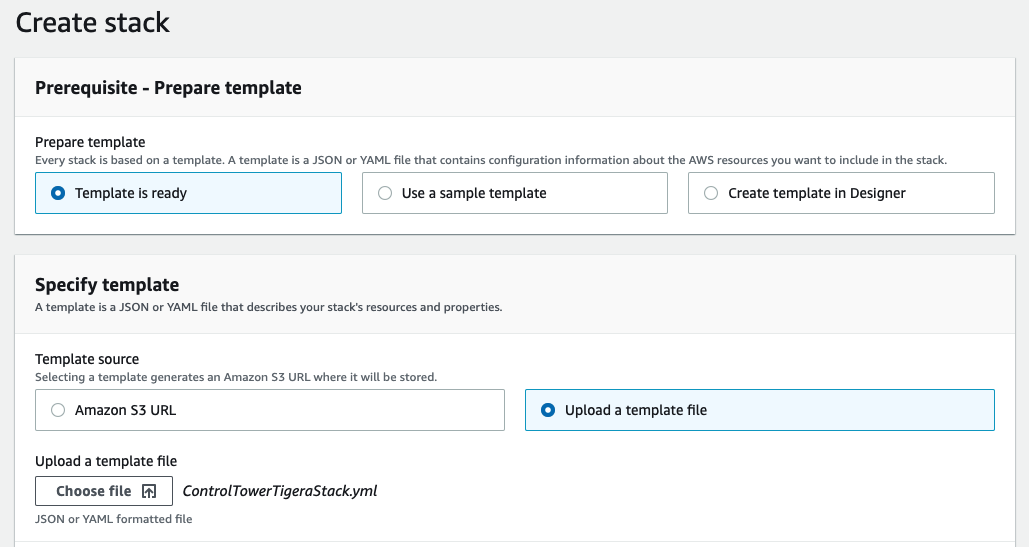
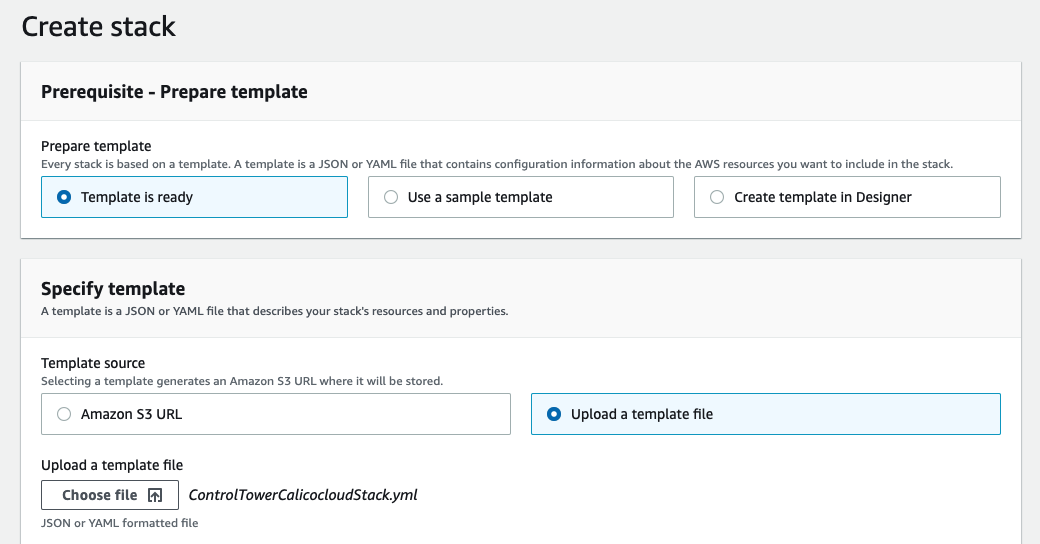
Updating readme and cfn template

diff --git a/README.md b/README.md
@@ -1,4 +1,4 @@
-# tigera-controltower-solution
+# calicocloud-controltower-solution
 
 This solution provides an event driven automation to connect an EKS cluster with Calico cloud.
 
@@ -9,7 +9,7 @@ In order to be able to perform operation on kubernetes, required by calicao scri
 This solution create an IAM role which is used to perform operations on kubernetes. Users of this solution would need to have an automated way of getting that IAM role added as `system:masters` in aws-auth configmap.
 
 ## Deployment
-The `ControlTowerCalicocloudStack.yml` will be deployed in Control Tower management account. This will create a stackset in management account. On every new account creation a CloudFormation stack will be deployed in new account via stackset. The CloudFormation stack in individual account(s) will deploy the resources required for tigera automation.
+The `ControlTowerCalicocloudStack.yml` will be deployed in Control Tower management account. This will create a stackset in management account. On every new account creation a CloudFormation stack will be deployed in new account via stackset. The CloudFormation stack in individual account(s) will deploy the resources required for calicocloud connection automation.
 
 #### Create ControlTowerCalicocloudStack
 * In Control Tower management account, go to CloudFormation stacks, select `Create stack` `With new resources (standard)`.
@@ -17,19 +17,19 @@ The `ControlTowerCalicocloudStack.yml` will be deployed in Control Tower managem
 
 ![Create stack](./resources/imgs/1.png)
 
-* on `Specify stack details` screen, provide a name for Stack. Provide install script url to connect EKS clusters to calico cloud under `TigeraScriptUrl` parameter. Update other parameters as desired. Then, select `Next`
+* on `Specify stack details` screen, provide a name for Stack. Provide install script url to connect EKS clusters to calico cloud under `CalicocloudScriptUrl` parameter. Update other parameters as desired. Then, select `Next`
 
 ![Create stack](./resources/imgs/2.png)
 
 * Keep default values and select `Next` on `Configure stack options` screen.
 * On `Review` screen, select checkbox for `Capabilities` and select `Create stack`
-* Once the stack is `CREATE_COMPLETE`, go to CloudFormation StackSets and select `TigeraCalicoConnnectStackSet`
+* Once the stack is `CREATE_COMPLETE`, go to CloudFormation StackSets and select `CalicocloudConnnectStackSet`
 
 ![Create stack](./resources/imgs/3.png)
 
-* Now, if a new account is vended via Control Tower, a stack instance will be created for that account, which will deploy required resources for calico cloud eks connection automation. To add any existing account follow the `Add stacks to StackSet` action of `TigeraCalicoConnnectStackSet`.
+* Now, if a new account is vended via Control Tower, a stack instance will be created for that account, which will deploy required resources for calico cloud eks connection automation. To add any existing account follow the `Add stacks to StackSet` action of `CalicocloudConnnectStackSet`.
 
-## Resources - Tigera automation
+## Resources - Calicocloud connection automation
 
 #### Kubernetes admin IAM role   
 This is the IAM role role that needs to be updated in aws-auth configmap of kubernetes cluster. ARN for this role is available as output of CloudFormation template.
@@ -39,13 +39,13 @@ An event rule is created to capture EKS CreateCluster event. This rule then trig
 This state machine will orchestrate the automation of connecting eks cluster to calico cloud. As part of this automation, a node group is added to EKS cluster as pods will be deployed. Then it uses AWS Systems Manager to run command on eks nodes to run the calico script.
 
 ## CloudFormation Parameters
-* **TigeraKubeAdminRoleName**   
+* **CalicocloudKubeAdminRoleName**   
 Role name for kubernetes admin role that needs to be added in aws-auth configmap.
 
-*  **TigeraScriptUrl**   
-The calico cloud install script url.
+*  **CalicocloudScriptUrl**   
+The calico cloud connection script url.
 
-* **TigeraStateMachineName**   
+* **CalicocloudStateMachineName**   
 State machine name, which orchestrate the automation.
 
 * **StateMachineLogRetention**   
